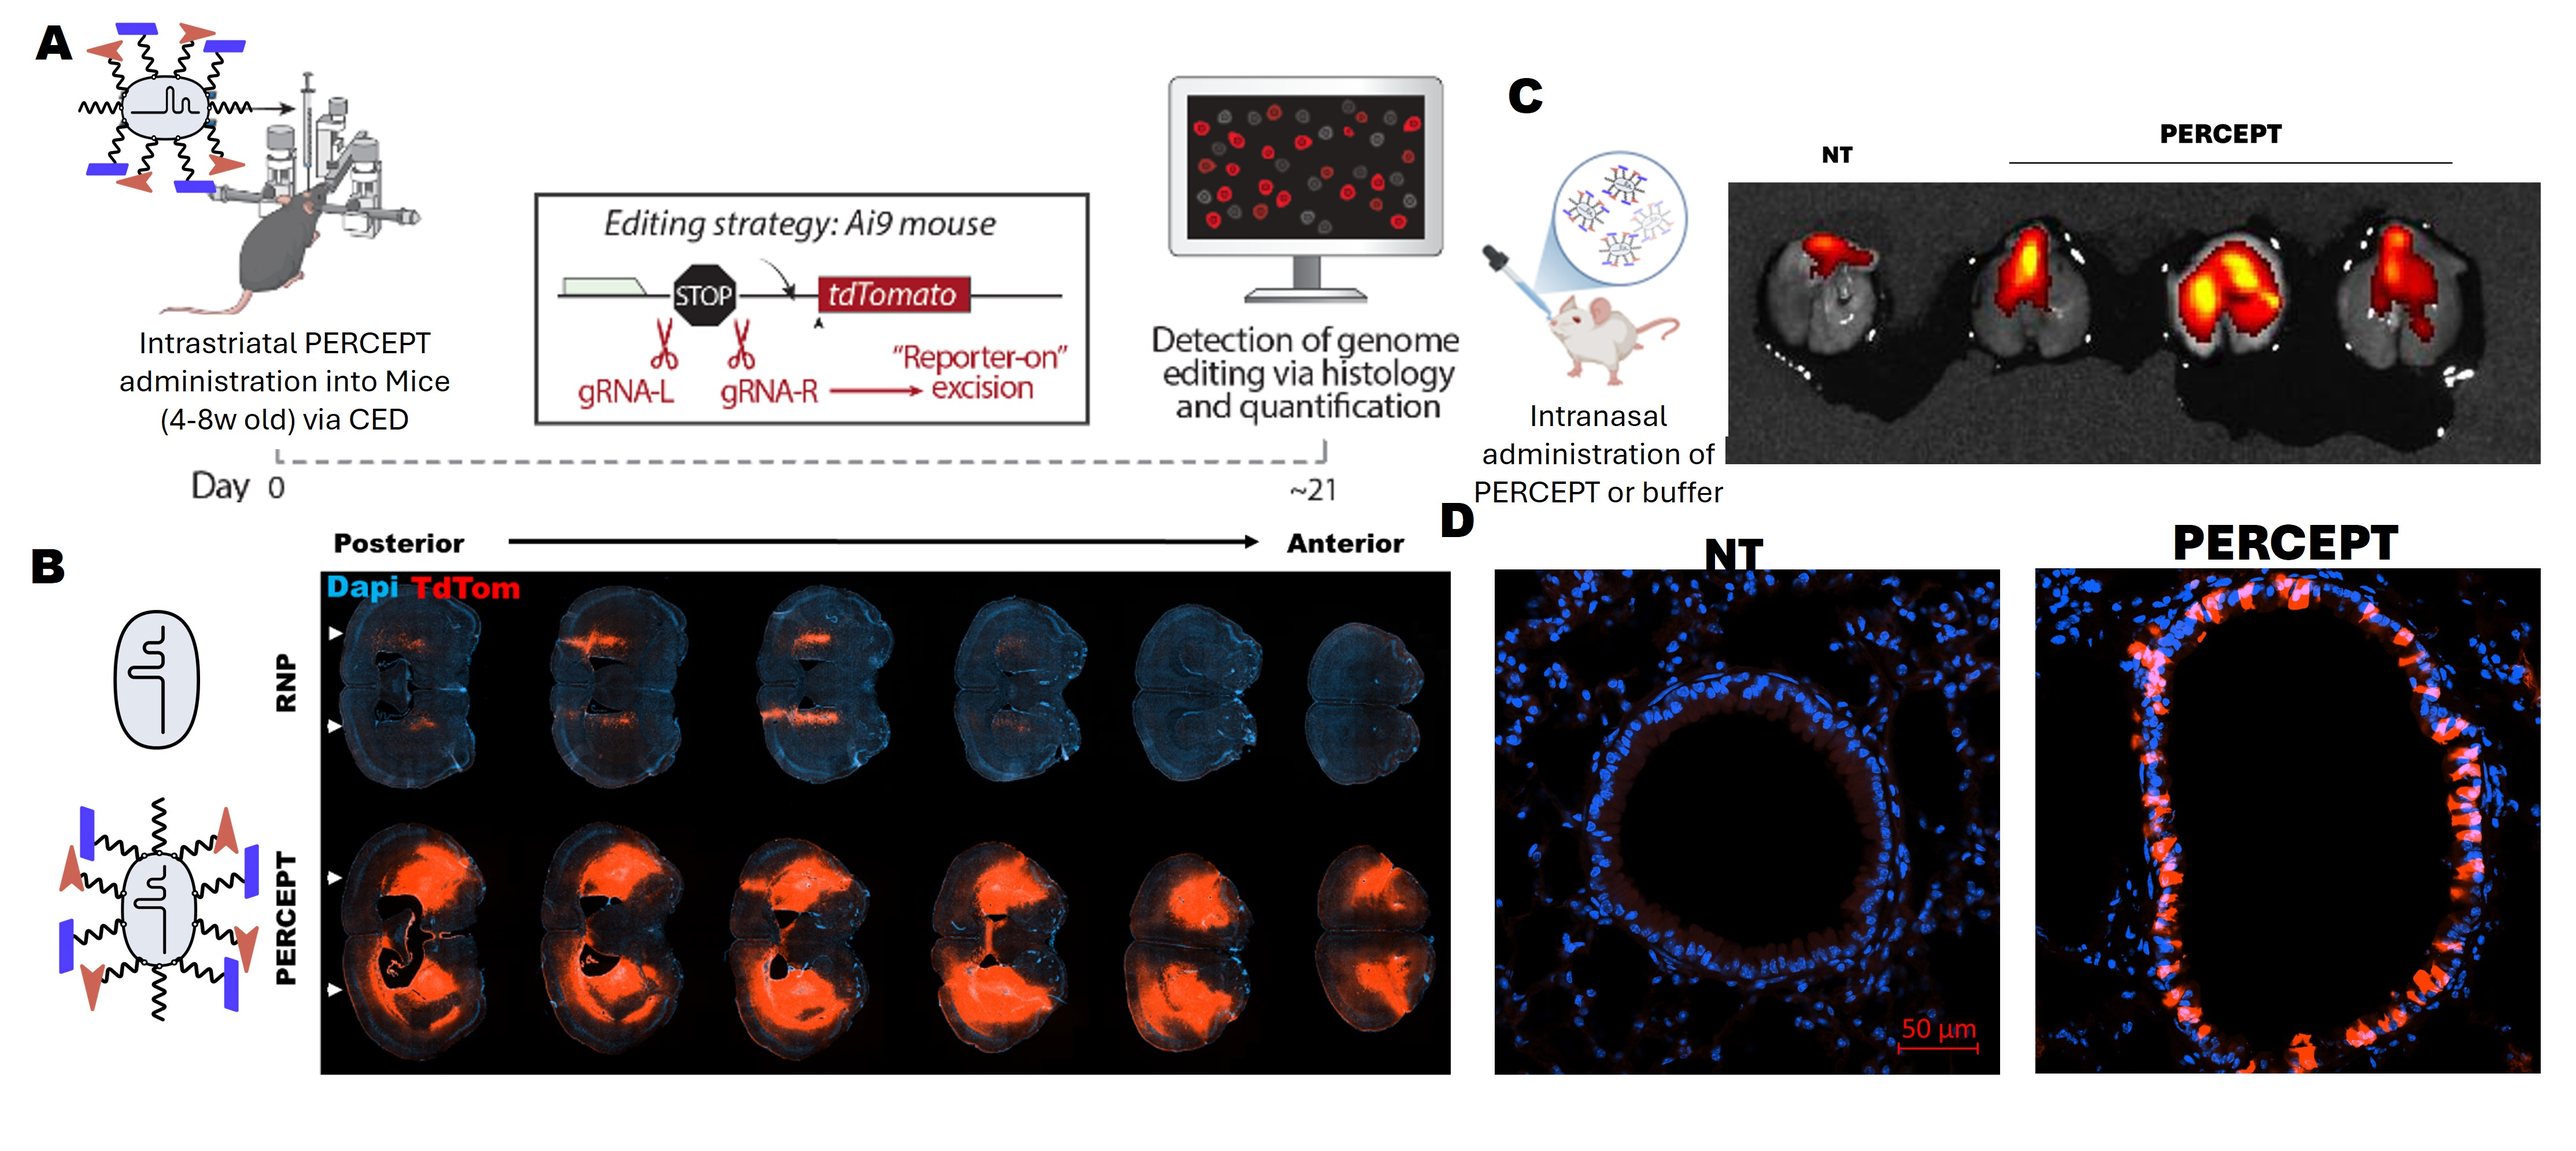
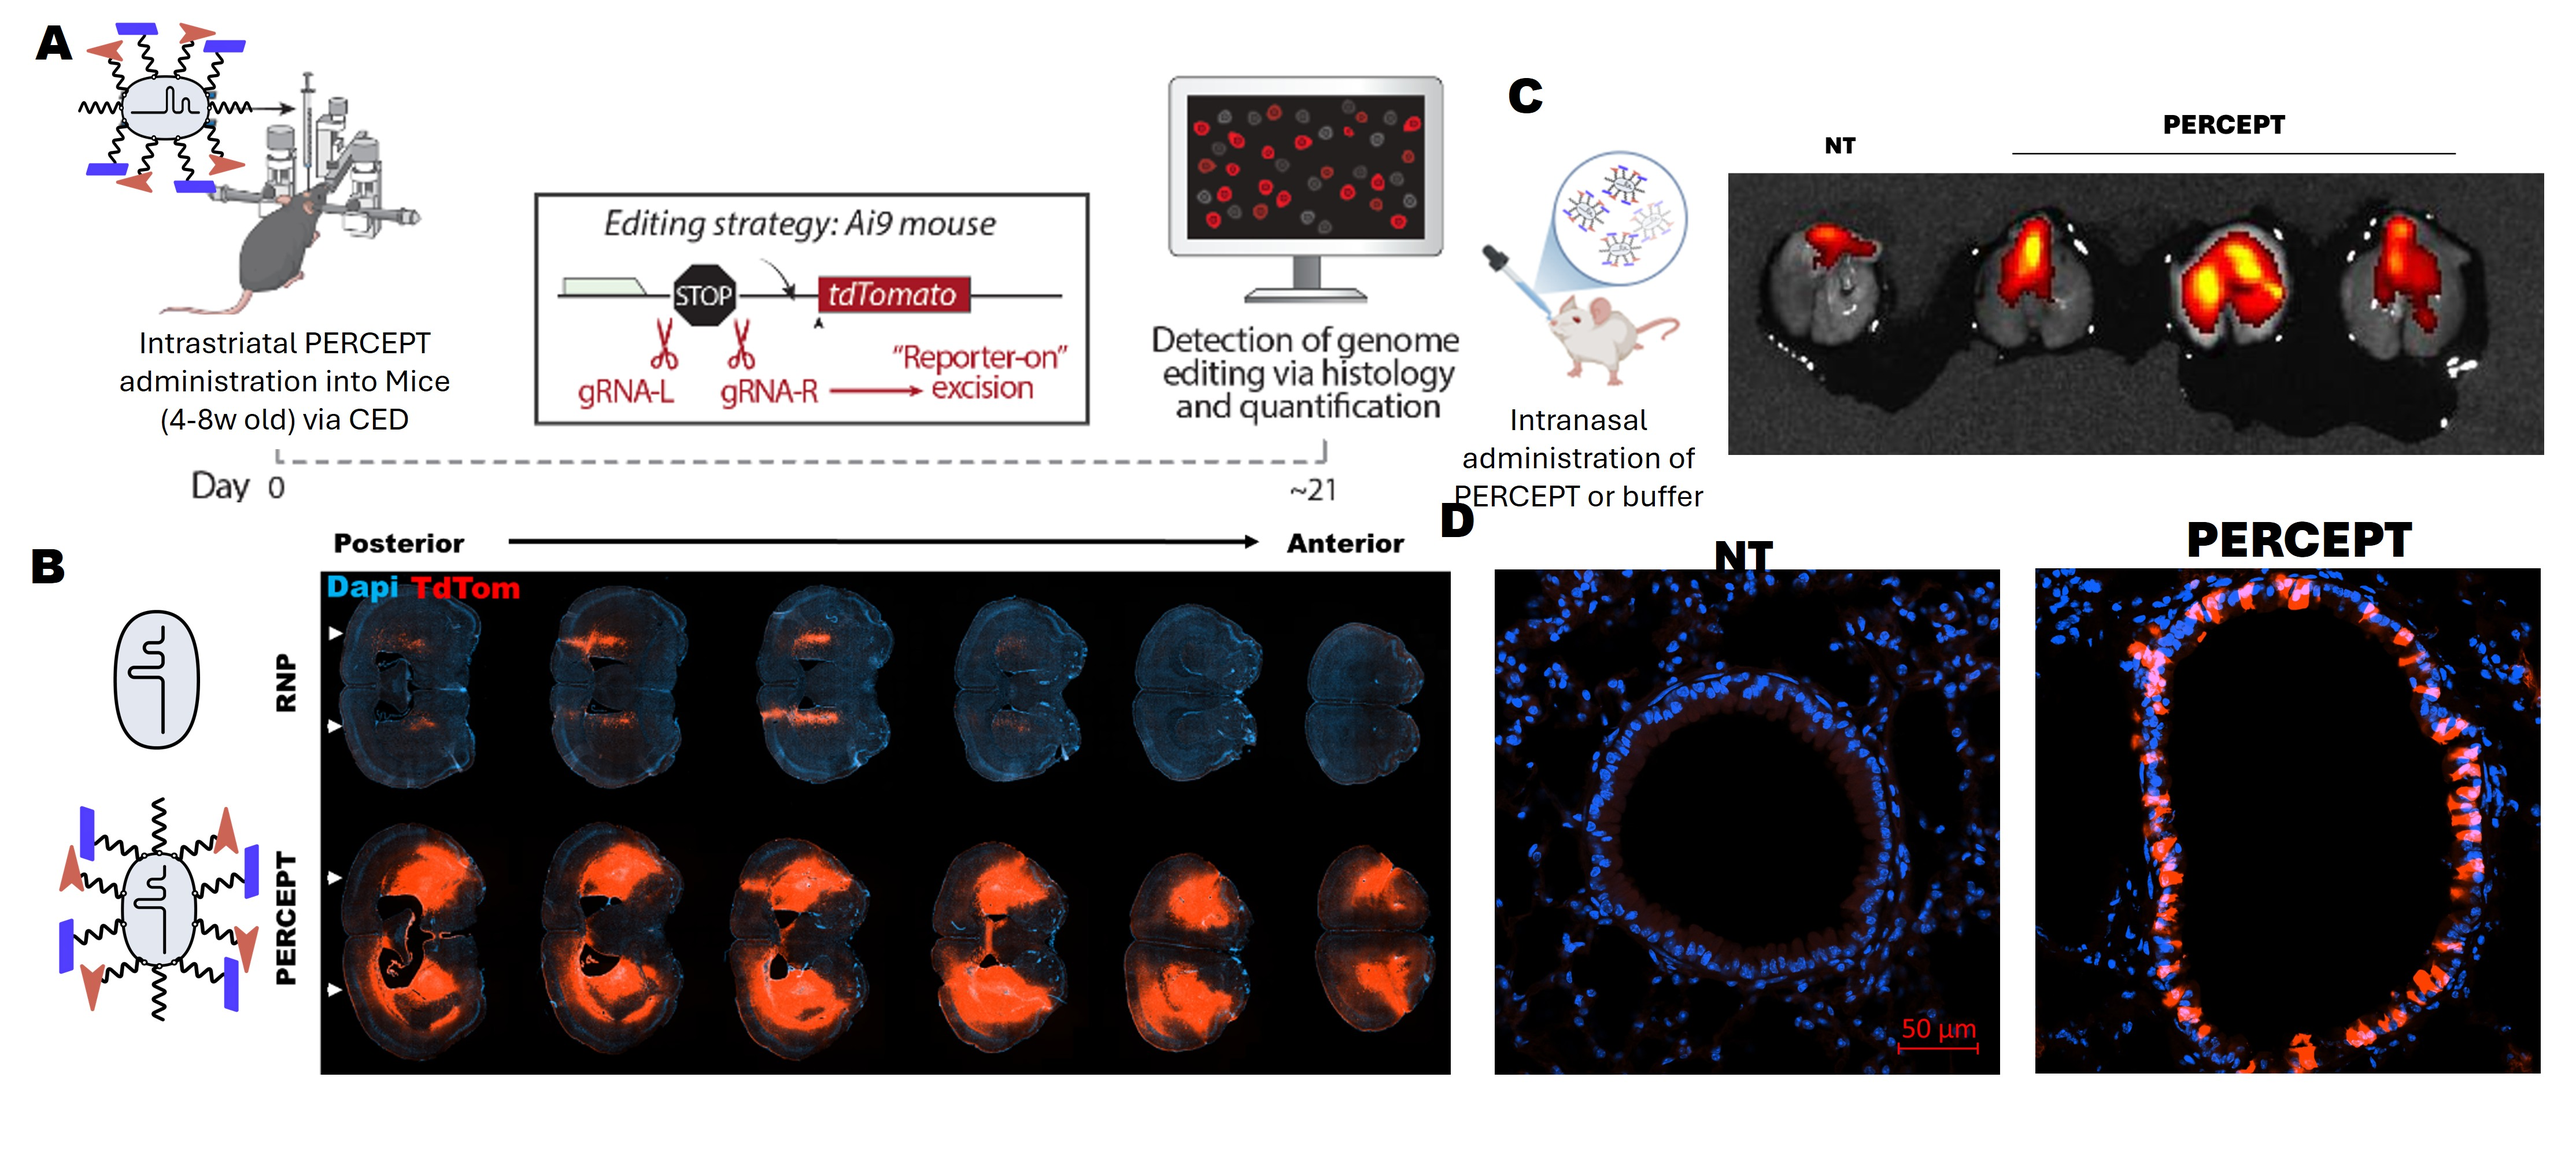
Refine research page layouts and restore two-column homepage hero

diff --git a/crispr-rnp-delivery.html b/crispr-rnp-delivery.html
@@ -39,6 +39,13 @@
       <p class="page-lead">Transient editor exposure, stability vs delivery tradeoffs, and formulation decisions grounded in in vivo readouts.</p>
     </section>
 
+    <section class="section research-layout research-layout--single" aria-label="CRISPR RNP delivery focus">
+      <article class="research-card">
+        <h2>Focus</h2>
+        <p>The limiting step for in vivo genome editing is delivery: getting an editor into the right cells at useful levels with controlled exposure. I develop non-viral CRISPR RNP delivery built around PERCEPT, a modular platform that allows targeting ligands and formulation chemistry be changed at the final step, enabling direct, matched in vivo comparisons. After local administration, PERCEPT has produced strong editing in the CNS and retina and has also performed well in lung and skeletal muscle, motivating a single platform to iterate across tissue environments and pinpoint the constraints that limit editing.</p>
+      </article>
+    </section>
+
     <section class="section figure-section" aria-labelledby="rnp-figure-title">
       <h2 id="rnp-figure-title">Figure</h2>
       <figure class="research-figure-panel">
@@ -47,12 +54,7 @@
       </figure>
     </section>
 
-    <section class="section research-layout" aria-label="CRISPR RNP delivery details">
-      <article class="research-card">
-        <h2>Focus</h2>
-        <p>The limiting step for in vivo genome editing is delivery: getting an editor into the right cells at useful levels with controlled exposure. I develop non-viral CRISPR RNP delivery built around PERCEPT, a modular platform that allows targeting ligands and formulation chemistry be changed at the final step, enabling direct, matched in vivo comparisons. After local administration, PERCEPT has produced strong editing in the CNS and retina and has also performed well in lung and skeletal muscle, motivating a single platform to iterate across tissue environments and pinpoint the constraints that limit editing.</p>
-      </article>
-
+    <section class="section research-layout research-layout--single" aria-label="CRISPR RNP delivery details">
       <article class="research-card">
         <h2>How I evaluate formulations</h2>
         <ul>
@@ -64,9 +66,7 @@
       </article>
 
       <article class="research-card">
-        <h2>Collaboration Fit</h2>
-        <p>This direction is a strong fit for teams that want to de-risk delivery choices quickly and build a formulation path that can evolve from discovery into product-facing development.</p>
-        <p><a class="button button-primary" href="mailto:cmbaehr@berkeley.edu">Discuss this direction</a></p>
+        <p><a class="button button-primary" href="mailto:cmbaehr@berkeley.edu">Want to chat more?</a></p>
       </article>
     </section>
   </main>

diff --git a/public/crispr-rnp-delivery.html b/public/crispr-rnp-delivery.html
@@ -39,6 +39,13 @@
       <p class="page-lead">Transient editor exposure, stability vs delivery tradeoffs, and formulation decisions grounded in in vivo readouts.</p>
     </section>
 
+    <section class="section research-layout research-layout--single" aria-label="CRISPR RNP delivery focus">
+      <article class="research-card">
+        <h2>Focus</h2>
+        <p>The limiting step for in vivo genome editing is delivery: getting an editor into the right cells at useful levels with controlled exposure. I develop non-viral CRISPR RNP delivery built around PERCEPT, a modular platform that allows targeting ligands and formulation chemistry be changed at the final step, enabling direct, matched in vivo comparisons. After local administration, PERCEPT has produced strong editing in the CNS and retina and has also performed well in lung and skeletal muscle, motivating a single platform to iterate across tissue environments and pinpoint the constraints that limit editing.</p>
+      </article>
+    </section>
+
     <section class="section figure-section" aria-labelledby="rnp-figure-title">
       <h2 id="rnp-figure-title">Figure</h2>
       <figure class="research-figure-panel">
@@ -47,12 +54,7 @@
       </figure>
     </section>
 
-    <section class="section research-layout" aria-label="CRISPR RNP delivery details">
-      <article class="research-card">
-        <h2>Focus</h2>
-        <p>The limiting step for in vivo genome editing is delivery: getting an editor into the right cells at useful levels with controlled exposure. I develop non-viral CRISPR RNP delivery built around PERCEPT, a modular platform that allows targeting ligands and formulation chemistry be changed at the final step, enabling direct, matched in vivo comparisons. After local administration, PERCEPT has produced strong editing in the CNS and retina and has also performed well in lung and skeletal muscle, motivating a single platform to iterate across tissue environments and pinpoint the constraints that limit editing.</p>
-      </article>
-
+    <section class="section research-layout research-layout--single" aria-label="CRISPR RNP delivery details">
       <article class="research-card">
         <h2>How I evaluate formulations</h2>
         <ul>
@@ -64,9 +66,7 @@
       </article>
 
       <article class="research-card">
-        <h2>Collaboration Fit</h2>
-        <p>This direction is a strong fit for teams that want to de-risk delivery choices quickly and build a formulation path that can evolve from discovery into product-facing development.</p>
-        <p><a class="button button-primary" href="mailto:cmbaehr@berkeley.edu">Discuss this direction</a></p>
+        <p><a class="button button-primary" href="mailto:cmbaehr@berkeley.edu">Want to chat more?</a></p>
       </article>
     </section>
   </main>

diff --git a/percept-ligand-installation.html b/percept-ligand-installation.html
@@ -39,10 +39,10 @@
       <p class="page-lead">Modular, last-step targeting ligand attachment using reversible, traceless conjugation chemistry, built for iteration and matched comparisons in vivo.</p>
     </section>
 
-    <section class="section research-layout" aria-label="PERCEPT details">
+    <section class="section research-layout research-layout--single" aria-label="PERCEPT details">
       <article class="research-card">
         <h2>Focus</h2>
-        <p>I build large pooled libraries of peptide-decorated CRISPR RNPs to discover new delivery ligands. These libraries are screened in vivo, and the resulting sequence-resolved data feed a machine learning model that proposes the next set of candidates to synthesize. The goal is an active learning loop that iteratively discovers formulations that enable efficient systemic CRISPR RNP delivery.</p>
+        <p>I build large pooled libraries of peptide-decorated CRISPR RNPs, screen them in vivo, and use the resulting datasets to train models that prioritize the next library design. The goal is an active learning loop for discovering ligands and formulations that improve tissue access and functional editing in vivo.</p>
         <p><a class="button button-primary" href="mailto:cmbaehr@berkeley.edu">Discuss this direction</a></p>
       </article>
     </section>

diff --git a/public/percept-ligand-installation.html b/public/percept-ligand-installation.html
@@ -39,10 +39,10 @@
       <p class="page-lead">Modular, last-step targeting ligand attachment using reversible, traceless conjugation chemistry, built for iteration and matched comparisons in vivo.</p>
     </section>
 
-    <section class="section research-layout" aria-label="PERCEPT details">
+    <section class="section research-layout research-layout--single" aria-label="PERCEPT details">
       <article class="research-card">
         <h2>Focus</h2>
-        <p>I build large pooled libraries of peptide-decorated CRISPR RNPs to discover new delivery ligands. These libraries are screened in vivo, and the resulting sequence-resolved data feed a machine learning model that proposes the next set of candidates to synthesize. The goal is an active learning loop that iteratively discovers formulations that enable efficient systemic CRISPR RNP delivery.</p>
+        <p>I build large pooled libraries of peptide-decorated CRISPR RNPs, screen them in vivo, and use the resulting datasets to train models that prioritize the next library design. The goal is an active learning loop for discovering ligands and formulations that improve tissue access and functional editing in vivo.</p>
         <p><a class="button button-primary" href="mailto:cmbaehr@berkeley.edu">Discuss this direction</a></p>
       </article>
     </section>

diff --git a/index.html b/index.html
@@ -37,6 +37,7 @@
       <div class="hero-layout">
         <div class="hero-copy">
           <p class="eyebrow">Biomedical engineer, CRISPR delivery scientist</p>
+          <p class="credibility-line">Postdoc at UC Berkeley / Innovative Genomics Institute | Inventor at Editpep</p>
           <h1 id="hero-title">I translate CRISPR delivery research into platforms that can become therapeutics.</h1>
           <p class="hero-subtext">If you are building in gene editing, I&rsquo;m easy to reach here.</p>
           <div class="hero-cta">

diff --git a/public/index.html b/public/index.html
@@ -37,6 +37,7 @@
       <div class="hero-layout">
         <div class="hero-copy">
           <p class="eyebrow">Biomedical engineer, CRISPR delivery scientist</p>
+          <p class="credibility-line">Postdoc at UC Berkeley / Innovative Genomics Institute | Inventor at Editpep</p>
           <h1 id="hero-title">I translate CRISPR delivery research into platforms that can become therapeutics.</h1>
           <p class="hero-subtext">If you are building in gene editing, I&rsquo;m easy to reach here.</p>
           <div class="hero-cta">

diff --git a/public/styles.css b/public/styles.css
@@ -146,6 +146,13 @@ main {
   color: var(--forest-soft);
 }
 
+.credibility-line {
+  margin: -0.4rem 0 0.95rem;
+  font-size: 0.83rem;
+  color: var(--forest-soft);
+  letter-spacing: 0.015em;
+}
+
 h1,
 h2,
 h3 {
@@ -459,8 +466,8 @@ button:focus-visible {
     grid-template-columns: repeat(2, minmax(0, 1fr));
   }
 
-  .research-layout .research-card:last-child {
-    grid-column: 1 / -1;
+  .research-layout.research-layout--single {
+    grid-template-columns: minmax(0, 1fr);
   }
 }
 

diff --git a/styles.css b/styles.css
@@ -146,6 +146,13 @@ main {
   color: var(--forest-soft);
 }
 
+.credibility-line {
+  margin: -0.4rem 0 0.95rem;
+  font-size: 0.83rem;
+  color: var(--forest-soft);
+  letter-spacing: 0.015em;
+}
+
 h1,
 h2,
 h3 {
@@ -459,8 +466,8 @@ button:focus-visible {
     grid-template-columns: repeat(2, minmax(0, 1fr));
   }
 
-  .research-layout .research-card:last-child {
-    grid-column: 1 / -1;
+  .research-layout.research-layout--single {
+    grid-template-columns: minmax(0, 1fr);
   }
 }
 
